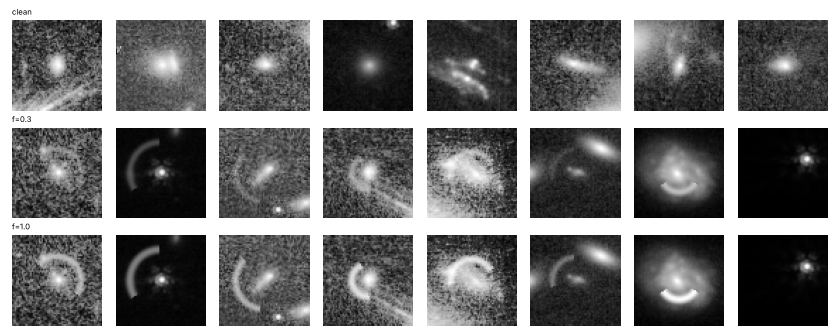
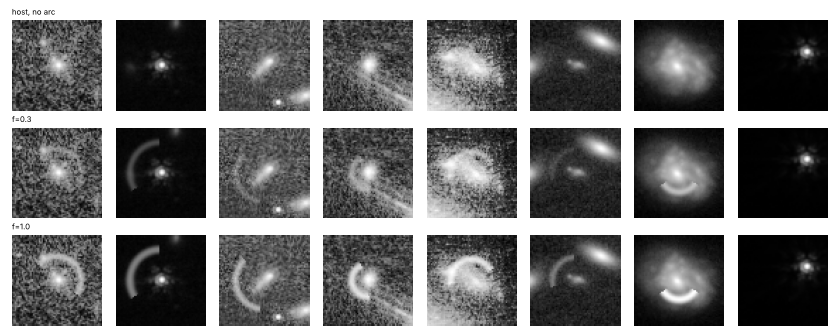
M2 embedding pilot: review fixes (guards, one model load, paired contact sheet, post hoc host-scaled variant)

Changed region(s): [[0.0, 0.0298, 0.9905, 0.3274]]

diff --git a/scripts/m2_embeddings.py b/scripts/m2_embeddings.py
@@ -2,7 +2,9 @@
 
 Plan: ``results/m2_embeddings/PLAN.md`` (frozen before any embedding was computed). The F200W
 ``_i2d.fits`` SCI array is streamed into memory from ``s3://stpubdata`` (never written to disk);
-hosts come from the matching pipeline catalog. ``decide`` encodes the plan's outcome rule.
+hosts come from the matching pipeline catalog. The whole SCI array is read once because 1050
+byte-range cutouts of 64 full-width rows each would move about 14 times more bytes (2.6 MB each).
+``decide`` encodes the plan's outcome rule.
 
     python scripts/m2_embeddings.py --out results/m2_embeddings
 """
@@ -11,6 +13,7 @@ from __future__ import annotations
 
 import argparse
 import json
+import os
 import time
 from pathlib import Path
 from typing import Any
@@ -118,20 +121,37 @@ def cut_at(sci: np.ndarray, x: float, y: float) -> np.ndarray:
     return np.asarray(sci[iy - h : iy + h, ix - h : ix + h], dtype=np.float64)
 
 
-def embed(name: str, imgs: np.ndarray, batch: int = 32) -> np.ndarray:
-    """Pooled pretrained features for preprocessed greyscale cutouts (N, 64, 64)."""
+def load_encoder(name: str) -> Any:
     import timm
+
+    # timm defaults DINOv2 to 518 px input; img_size=224 interpolates its position embedding.
+    kw = {"img_size": 224} if name == "dinov2" else {}
+    return timm.create_model(ENCODERS[name], pretrained=True, num_classes=0, **kw).eval()
+
+
+def minmax(imgs: np.ndarray) -> tuple[np.ndarray, np.ndarray]:
+    """Per-image minimum and range, shape (N, 1, 1)."""
+    return imgs.min(axis=(1, 2), keepdims=True), np.ptp(imgs, axis=(1, 2), keepdims=True)
+
+
+def embed(
+    name: str,
+    model: Any,
+    imgs: np.ndarray,
+    ref: tuple[np.ndarray, np.ndarray] | None = None,
+    batch: int = 32,
+) -> np.ndarray:
+    """Pooled pretrained features for preprocessed greyscale cutouts (N, 64, 64).
+
+    Frozen plan: each image is min-max scaled to [0, 1] by its own range. ``ref`` (post hoc) gives
+    the minimum and range to use instead, e.g. those of the host's clean cutout.
+    """
     import torch
     import torch.nn.functional as F
 
-    kw = (
-        {"img_size": 224} if name == "dinov2" else {}
-    )  # timm interpolates DINOv2's 518 px pos-embed
-    model = timm.create_model(ENCODERS[name], pretrained=True, num_classes=0, **kw).eval()
+    lo, rng_ = minmax(imgs) if ref is None else ref
     out = []
-    x01 = (imgs - imgs.min(axis=(1, 2), keepdims=True)) / (
-        np.ptp(imgs, axis=(1, 2), keepdims=True) + 1e-12
-    )
+    x01 = (imgs - lo) / (rng_ + 1e-12)
     mean = torch.tensor([0.485, 0.456, 0.406]).view(1, 3, 1, 1)
     std = torch.tensor([0.229, 0.224, 0.225]).view(1, 3, 1, 1)
     with torch.inference_mode():
@@ -167,7 +187,7 @@ def main() -> None:
     from astropy.io import fits
     from astropy.table import Table
 
-    torch.set_num_threads(4)
+    torch.set_num_threads(os.cpu_count() or 1)
     t0 = time.time()
     with fsspec.open(S3.format(kind="cat.ecsv"), "rt", anon=True) as f:
         cat = Table.read(f.read(), format="ascii.ecsv")
@@ -180,6 +200,8 @@ def main() -> None:
         pix = float(np.hypot(hdr["CD1_1"], hdr["CD2_1"]) * 3600)
     if not np.isfinite(pix) and "PIXAR_A2" in hdr:
         pix = float(np.sqrt(hdr["PIXAR_A2"]))
+    if not (np.isfinite(pix) and abs(pix - PIX_ARCSEC) < 1e-3):
+        raise RuntimeError(f"unexpected F200W pixel scale {pix} arcsec (plan: {PIX_ARCSEC})")
     t_io = time.time() - t0
     idx = select_hosts(cat, sci.shape)
     rng = np.random.default_rng(HOST_SEED)
@@ -193,6 +215,8 @@ def main() -> None:
         if len(hosts) == N_CLEAN + N_INJ:
             break
     del sci
+    if len(hosts) < N_CLEAN + N_INJ:
+        raise RuntimeError(f"only {len(hosts)} finite cutouts; the plan needs {N_CLEAN + N_INJ}")
     cuts_a = np.stack(cuts)
     n_avail = len(hosts)
     clean, inj_hosts = cuts_a[:N_CLEAN], cuts_a[N_CLEAN:]
@@ -200,13 +224,16 @@ def main() -> None:
     sc = np.array([scale_of(c, b) for c, b in zip(cuts_a, bk, strict=True)])
     hf = np.array([host_flux(c, b, pix) for c, b in zip(cuts_a, bk, strict=True)])
     pre_clean = np.stack([preprocess(c, bk[i], sc[i]) for i, c in enumerate(clean)])
+    pre_injclean = np.stack(
+        [preprocess(c, bk[N_CLEAN + j], sc[N_CLEAN + j]) for j, c in enumerate(inj_hosts)]
+    )
     is_inj = np.r_[np.zeros(N_CLEAN, bool), np.ones(len(inj_hosts), bool)]
 
     sets: dict[tuple[float, int], np.ndarray] = {}
     arcs: list[dict[str, Any]] = []
     for f_ in STRENGTHS:
         for seed in INJ_SEEDS:
-            r = np.random.default_rng(seed)
+            r = np.random.default_rng(seed)  # same geometry at both strengths (paired design)
             pre = []
             for j, c in enumerate(inj_hosts):
                 k = N_CLEAN + j
@@ -226,15 +253,23 @@ def main() -> None:
             rank_recall(np.r_[pre_clean, sets[(f_, s)]].reshape(-1, SIZE * SIZE), is_inj, s)
             for s in INJ_SEEDS
         ]
+    posthoc: dict[str, dict[str, list[float]]] = {}
+    ref = minmax(pre_injclean)
     for enc in ENCODERS:
         t1 = time.time()
-        e_clean = embed(enc, pre_clean)
-        recall[enc] = {}
+        model = load_encoder(enc)
+        e_clean = embed(enc, model, pre_clean)
+        recall[enc], posthoc[enc] = {}, {}
         for f_ in STRENGTHS:
             recall[enc][str(f_)] = [
-                rank_recall(np.r_[e_clean, embed(enc, sets[(f_, s)])], is_inj, s) for s in INJ_SEEDS
+                rank_recall(np.r_[e_clean, embed(enc, model, sets[(f_, s)])], is_inj, s)
+                for s in INJ_SEEDS
             ]
-        timing[enc] = time.time() - t1
+            posthoc[enc][str(f_)] = [
+                rank_recall(np.r_[e_clean, embed(enc, model, sets[(f_, s)], ref)], is_inj, s)
+                for s in INJ_SEEDS
+            ]
+        timing[enc] = time.time() - t1  # both variants
     outcome = {
         enc: {str(f_): decide(recall[enc][str(f_)], recall["pixel"][str(f_)]) for f_ in STRENGTHS}
         for enc in ENCODERS
@@ -270,7 +305,15 @@ def main() -> None:
         },
         "outcome": outcome,
         "h_emb_supported": h_emb,
-        "timing_s": {"io": t_io, **timing},
+        "posthoc_host_scaled": {
+            "note": "post hoc, not part of the frozen rule: injected cutouts min-max scaled with "
+            "their host's clean-cutout range instead of their own",
+            "recall_at_k": posthoc,
+            "mean_recall_at_k": {
+                m: {f_: float(np.mean(v)) for f_, v in d.items()} for m, d in posthoc.items()
+            },
+        },
+        "timing_s": {"io_catalog_and_full_sci": t_io, **timing},
         "versions": {
             "torch": torch.__version__,
             "timm": __import__("timm").__version__,
@@ -282,19 +325,19 @@ def main() -> None:
     Table(rows=[[a[k] for k in arcs[0]] for a in arcs], names=list(arcs[0])).write(
         args.out / "injections.ecsv", overwrite=True
     )
-    # Contact sheet: first 8 injected hosts at each strength (seed 1) plus 8 clean, preprocessed.
+    # Contact sheet: the first 8 injection hosts without and with the seed-1 arcs, preprocessed.
     import matplotlib
 
     matplotlib.use("Agg")
     import matplotlib.pyplot as plt
 
-    rows = [pre_clean[:8], sets[(STRENGTHS[0], 1)][:8], sets[(STRENGTHS[1], 1)][:8]]
+    rows = [pre_injclean[:8], sets[(STRENGTHS[0], 1)][:8], sets[(STRENGTHS[1], 1)][:8]]
     fig, axs = plt.subplots(3, 8, figsize=(12, 4.8))
     for r_, row in enumerate(rows):
         for c_, im in enumerate(row):
             axs[r_, c_].imshow(im, origin="lower", cmap="gray")
             axs[r_, c_].axis("off")
-    for r_, lab in enumerate(["clean", f"f={STRENGTHS[0]}", f"f={STRENGTHS[1]}"]):
+    for r_, lab in enumerate(["host, no arc", f"f={STRENGTHS[0]}", f"f={STRENGTHS[1]}"]):
         axs[r_, 0].set_title(lab, fontsize=8, loc="left")
     fig.tight_layout()
     fig.savefig(args.out / "contact_sheet.png", dpi=70)

diff --git a/results/m2_embeddings/RESULT.md b/results/m2_embeddings/RESULT.md
@@ -2,8 +2,8 @@
 
 Plan: `PLAN.md` (frozen before any embedding; one pre-run deviation below). Script: `scripts/m2_embeddings.py`.
 Numbers: `summary.json`; arc parameters per host, strength and seed: `injections.ecsv`. Contact sheet:
-`contact_sheet.png` (looked at: the arcs are visible by eye at both strengths on 7 / 8 hosts shown; on the
-bright point source in the last column they are not, because host flux within 0.3″ under-weights a star's PSF wings).
+`contact_sheet.png` (looked at; the same 8 injection hosts without and with the seed-1 arcs: the arcs are visible by
+eye at both strengths on 7 / 8; on the bright point source in the last column they are not; cause not measured).
 
 ## Data (observed) and sample (derived)
 - `jw02736-o001_t001_nircam_clear-f200w_i2d.fits` SCI streamed from `s3://stpubdata` (not stored); pixel scale
@@ -25,13 +25,22 @@ bright point source in the last column they are not, because host flux within 0.
   rank added arcs near the top. This describes this configuration only (global pooled features, PCA 50, IF); it is
   not a test of a supervised or fine-tuned lens finder.
 - Post hoc (not part of the rule): Zoobot's recall does not rise from f = 0.3 to 1.0 (both means 0.173), so its
-  gain over the baseline does not scale with arc brightness in this test; a cause is not isolated.
+  gain over the baseline does not scale with arc brightness in this test; a cause is not isolated. The design is
+  paired: each seed draws the same arc geometry at both strengths (only the flux differs), so the two strengths are
+  not independent tests.
+- Post hoc (`summary.json` `posthoc_host_scaled`): the frozen encoders' input min-max scales each injected cutout by
+  its own range, so an arc also changes the host's contrast. Scaling injected cutouts by their host's clean range
+  instead gives Zoobot 0.16 / 0.16 and DINOv2 0.047 / 0.08, so Zoobot's gain at f = 0.3 does not come from that
+  rescaling.
 
 ## Limitations
 - Noiseless arcs (optimistic for all methods alike); a single field and band; 50 injections per seed, so one
   injected source changes recall by 0.02; global pooled features; no catalog-feature comparison, because image-level
   injections would need re-extraction (the catalog baseline cannot see them without it).
-- Runtime on 4 CPU cores (stored): Zoobot 35 s, DINOv2 53 s, each for the 1000 clean cutouts plus 50 × 2 strengths × 3 seeds injected ones.
+- Encoder input is min-max scaled per image (frozen); the pixel baseline is not (see the post hoc check above).
+- The full SCI array (196 MB) is read into memory once, not stored: 1050 byte-range cutouts of 64 full-width rows
+  would move more bytes (estimate in the script docstring, not stored).
+- Runtime on 4 CPU cores (stored; both variants): Zoobot 36 s, DINOv2 58 s, each for the 1000 clean cutouts plus 50 × 2 strengths × 3 seeds injected ones, twice (frozen and post hoc).
 
 ## Next
 - Embeddings are not adopted for M2 ranking. A lens-specific route stays as D-010 lists it (AnomalyMatch, then a

diff --git a/CHANGELOG.md b/CHANGELOG.md
@@ -9,6 +9,7 @@ Newest first. Results, failed approaches and the handoff state; not a diary.
   from S3; pooled features → PCA 50 → Isolation Forest; recall@50 (random 0.048).
 - **Result** (`RESULT.md`, `summary.json`, contact sheet looked at: arcs visible): mean recall pixel 0.033 / 0.08,
   Zoobot 0.173 / 0.173, DINOv2 0.047 / 0.06. Zoobot beats only at f = 0.3; DINOv2 ties. H-emb not supported.
+  Post hoc: scaling injected cutouts by the host's clean range leaves Zoobot at 0.16 / 0.16 (not a rescaling artefact).
 - **Failed approach:** DINOv2 in timm defaults to 518 px input; `img_size=224` is required.
 - **Services:** CDS still unreachable (21:08Z, no HTTP response); #751 still waits. S3 and the Hugging Face Hub worked.
 - **Handoff:** unsupervised global embeddings closed for M2 ranking; a lens finder needs labelled JWST lenses
